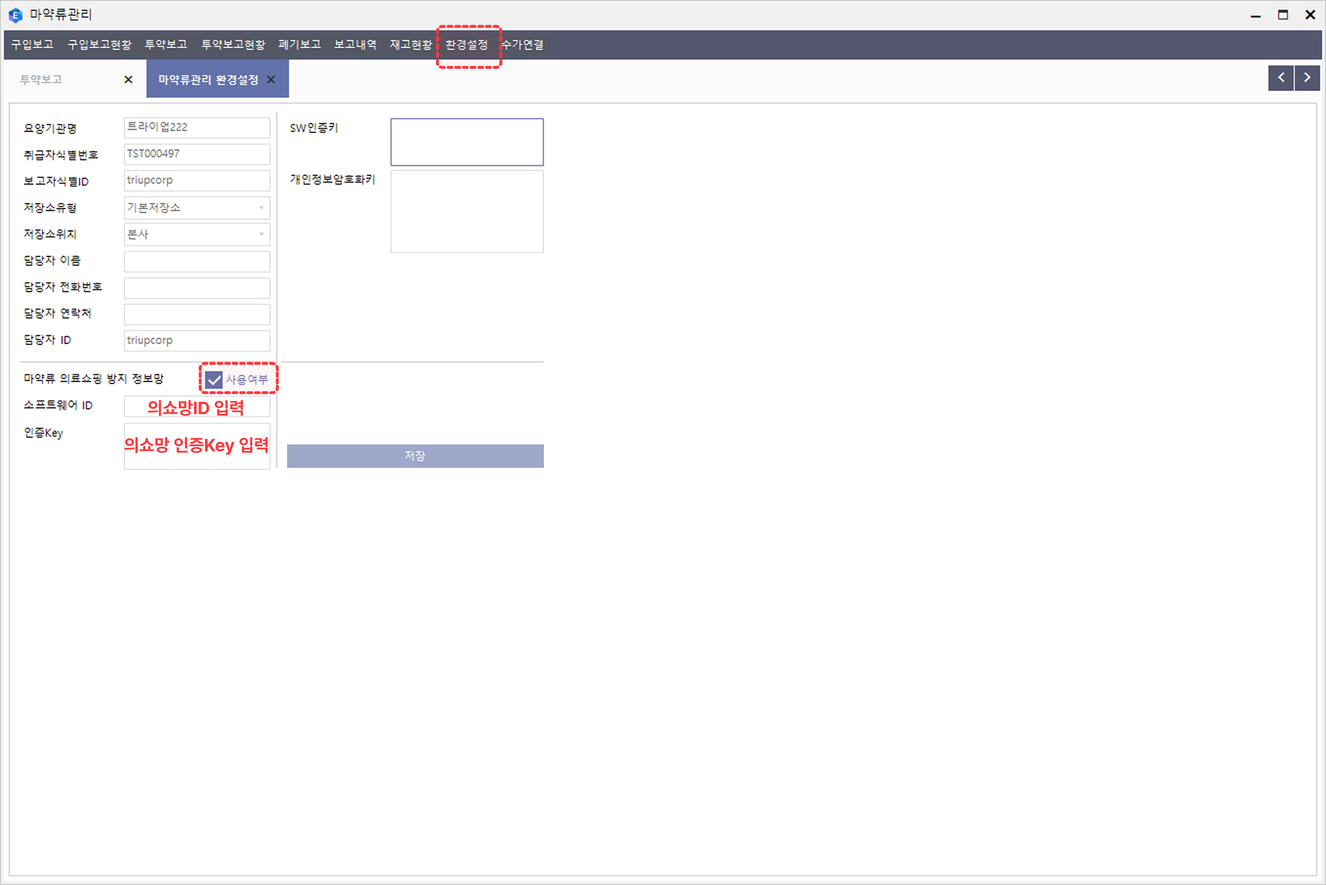
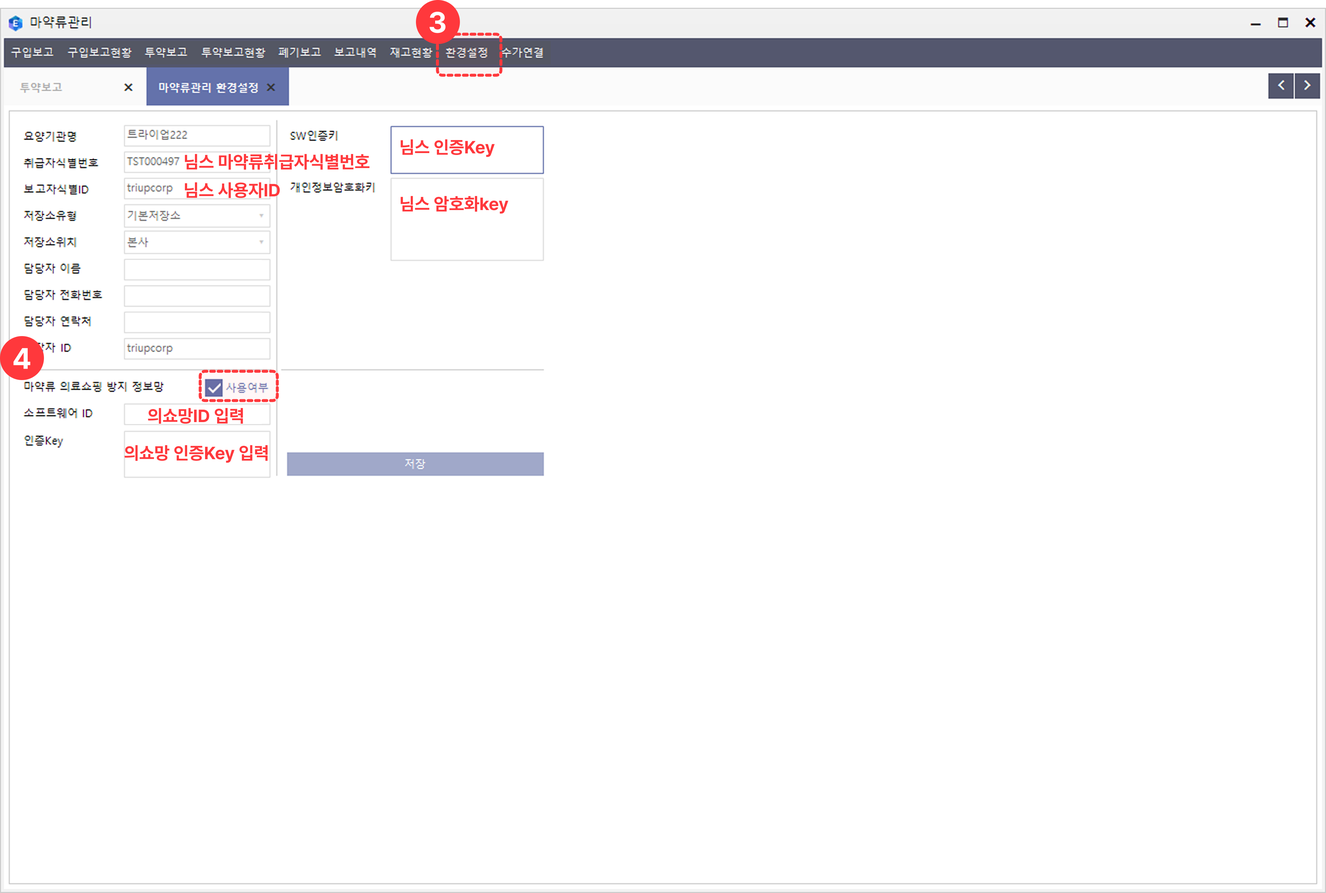
노션 반영: FAQ 7건 수정(고정CRM 표·차트삭제 재작성·마약류 등)
- f9 고정CRM 표: 'DID 호출 안내' 행 삭제(15→14행) 반영, 표 재렌더링(노션 75셀 일치).
- f12 차트를 삭제하고 싶어요: 본문 전면 재작성(대시보드 [접수]칸 삭제 방식), 이미지 갱신(faq-04).
- f13 시술오더 삭제: '※수납완료 상태에서는 수납취소 후 삭제' 추가.
- f14 처방 삭제: '※처방이 여러 개인 경우 우클릭 후 [전체삭제]' 추가.
- f15 상담메모: 첫 동작 '더블클릭'→'클릭'.
- f18 마약류 이력: '님스 NIMS' 표기 추가.
- f19 마약류 메뉴: 제목에 '(NIMS 님스 연동)' 추가 + 두 번째 이미지 교체(faq-43).
- 매뉴얼·공지·업데이트 변경 없음.
- 검증(헤드리스): 49개·짝일치·표 14행·각 항목 반영·회귀(공지18·매뉴얼25·업데이트7·채널톡) 통과(f13·f15 FAIL은 테스트 문자열 공백 오차, 노션 재대조 완전 일치).

Changed region(s): [[0.0, 0.0, 1.0, 0.5563]]

diff --git a/index.html b/index.html
@@ -318,7 +318,7 @@ footer .logo-triup{height:20px;vertical-align:middle;margin:0 4px;opacity:.8}
 
       <svg class="qi-arrow" viewBox="0 0 24 24" width="18" height="18"><path d="M9 6l6 6-6 6" fill="none" stroke="currentColor" stroke-width="2" stroke-linecap="round" stroke-linejoin="round"/></svg>
     </button>
-<button class="q-item" data-id="f9" data-cat="고객관리" data-search="고정crm 설정 값이 궁금해요. No. 이름 발송 조건 (이때 발송돼요) 선택 가능 전송종류 전송종류별 발송 시점 1 접수안내 접수 팝업에서 ‘접수 안내’ 체크박스 선택 후 접수 시 (단, 기존 예약 건을 접수하는 경우만, 신규·재접수 미발송) • 즉시발송 • 설정안함 • 즉시발송: 접수 저장 직후 즉시 (시각 설정 시 당일 그 시각) 2 호출하기 대기 현황판에서 환자 우클릭> [호출하기] 버튼 클릭 • 즉시발송 • 설정안함 • 즉시발송: 대기현황판> 고객카드 우클릭> [호출하기] 버튼 클릭 시 3 신규 환자 인사 상담탭/진료탭 [저장] 시 (임시저장 제외) 첫 내원(신환)인 경우 (이력 있으면 중복 차단) • 자동발송 • 수동발송 • 설정안함 • 자동발송: 설정 시각(미설정 시 즉시) • 수동발송: [고객관리]> [CRM 수동 발송] 에서 발송/처리로 가능 4 고객만족도평가 상담탭/진료탭 [저장] 시 (임시저장 제외), 내원 1건당 1회 • 즉시발송 • 수동발송 • 설정안함 • 즉시발송: 저장 기준 즉시 또는 [관리자]> [옵션설정] >+1/+3/+5시 ◦ 23~06시 → 익일 10:00 이월 • 수동발송: [고객관리]> [CRM 수동 발송] 에서 발송/처리로 가능 5 진료 지연 안내 현재 사용하지 않는 코드 6 사전문진표 신규 예약 등록 시(예약 변경 시 미발송) • 즉시발송 • 수동발송 • 설정안함 • 즉시발송: 신규 예약 등록 즉시 • 수동발송: [고객관리]> [CRM 수동 발송] 에서 발송/처리로 가능 7 예약취소 예약 취소 처리 시 • 즉시발송 • 설정안함 • 즉시발송: 취소 처리 즉시 8 예약변경 예약 일시 변경 시 • 즉시발송 • 설정안함 • 즉시발송: 변경 저장 즉시 (예약캘린더 드래그 이동은 확정 2분 뒤) 9 예약안내 (내원 당일) 예약 등록·변경 저장 시(당일 토글 ON) — 당일 등록 건 미발송 • 자동발송 • 수동발송 • 설정안함 • 자동발송: 예약일 당일 + 설정 시각(미설정 10:00), 예약시간이 더 이르면 30분 전 • 수동발송: [고객관리]> [CRM 수동 발송] 에서 발송/처리로 가능 10 예약안내 (내원 전일) 예약 등록·변경 저장 시(전일 토글 ON) — 예정시각이 미래일 때만 • 자동발송 • 수동발송 • 설정안함 • 자동발송: 예약일 하루 전 + 설정 시각(미설정 10:00) • 수동발송: [고객관리]> [CRM수동 발송] 에서 발송/처리로 가능 11 예약안내 (즉시) 예약 등록 및 외부 예약 확정 즉시 • 즉시발송 • 수동발송 • 설정안함 • 즉시발송: 예약 등록·승인 즉시 • 수동발송: [고객관리]> [CRM 수동 발송] 에서 발송/처리로 가능 12 사용 포인트 안내 포인트 화면 [문자발송] 버튼(수동) 수납·상담 저장 자동발송 없음 • 즉시발송 • 설정안함 • 즉시발송: 버튼 발송 동작 즉시 13 DID 호출 안내 DID 전광판 환자카드 우클릭 → [호출하기] → 확인 • 즉시발송 • 설정안함 • 즉시발송: DID 전광판 환자카드 우클릭 → [호출하기] → 확인 14 방문약도 신규 예약 등록 시 (예약변경 시 미발송) • 즉시발송 • 수동발송 • 설정안함 • 즉시발송: 신규 예약 등록 즉시 • 수동발송: [고객관리]> [CRM 수동 발송] 에서 발송/처리로 가능 15 미방문 안내 예약 노쇼 후 부도 처리 시 • 즉시발송 • 설정안함 • 즉시발송: 부도 처리 즉시">
+<button class="q-item" data-id="f9" data-cat="고객관리" data-search="고정CRM 설정 값이 궁금해요. No. 이름 발송 조건 (이때 발송돼요) 선택 가능 전송종류 전송종류별 발송 시점 1 접수안내 접수 팝업에서 ‘접수 안내’ 체크박스 선택 후 접수 시 (단, 기존 예약 건을 접수 하는 경우만, 신규·재접수 미발송) • 즉시발송 • 설정안함 • 즉시발송: 접수 저장 직후 즉시 (시각 설정 시 당일 그 시각) 2 호출하기 대기 현황판에서 환자 우클릭> [호출하기] 버튼 클릭 • 즉시발송 • 설정안함 • 즉시발송: 대기현황판> 고객카드 우클릭> [호출하기] 버튼 클릭 시 3 신규 환자 인사 상담탭/진료탭 [저장] 시 (임시저장 제외) 첫 내원(신환)인 경우 (이력 있으면 중복 차단) • 자동발송 • 수동발송 • 설정안함 • 자동발송: 설정 시각(미설정 시 즉시) • 수동발송: [고객관리]> [CRM 수동 발송] 에서 발송/처리로 가능 4 고객만족도평가 상담탭/진료탭 [저장] 시 (임시저장 제외), 내원 1건당 1회 • 즉시발송 • 수동발송 • 설정안함 • 즉시발송: 저장 기준 즉시 또는 [관리자]> [옵션설정] >+1/+3/+5시 ◦ 23~06시 → 익일 10:00 이월 • 수동발송: [고객관리]> [CRM 수동 발송] 에서 발송/처리로 가능 5 진료 지연 안내 현재 사용하지 않는 코드 6 사전문진표 신규 예약 등록 시( 예약 변경 시 미발송) • 즉시발송 • 수동발송 • 설정안함 • 즉시발송: 신규 예약 등록 즉시 • 수동발송: [고객관리]> [CRM 수동 발송] 에서 발송/처리로 가능 7 예약취소 예약 취소 처리 시 • 즉시발송 • 설정안함 • 즉시발송: 취소 처리 즉시 8 예약변경 예약 일시 변경 시 • 즉시발송 • 설정안함 • 즉시발송: 변경 저장 즉시 (예약캘린더 드래그 이동은 확정 2분 뒤) 9 예약안내 (내원 당일) 예약 등록·변경 저장 시(당일 토글 ON) — 당일 등록 건 미발송 • 자동발송 • 수동발송 • 설정안함 • 자동발송: 예약일 당일 + 설정 시각 (미설정 10:00), 예약시간이 더 이르면 30분 전 • 수동발송: [고객관리]> [CRM 수동 발송] 에서 발송/처리로 가능 10 예약안내 (내원 전일) 예약 등록·변경 저장 시(전일 토글 ON) — 예정시각이 미래일 때만 • 자동발송 • 수동발송 • 설정안함 • 자동발송: 예약일 하루 전 + 설정 시각 (미설정 10:00) • 수동발송: [고객관리]> [CRM수동 발송] 에서 발송/처리로 가능 11 예약안내 (즉시) 예약 등록 및 외부 예약 확정 즉시 • 즉시발송 • 수동발송 • 설정안함 • 즉시발송: 예약 등록·승인 즉시 • 수동발송: [고객관리]> [CRM 수동 발송] 에서 발송/처리로 가능 12 사용 포인트 안내 포인트 화면 [문자발송] 버튼 (수동) 수납·상담 저장 자동발송 없음 • 즉시발송 • 설정안함 • 즉시발송: 버튼 발송 동작 즉시 13 방문약도 신규 예약 등록 시 (예약 변경 시 미발송) • 즉시발송 • 수동발송 • 설정안함 • 즉시발송: 신규 예약 등록 즉시 • 수동발송: [고객관리]> [CRM 수동 발송] 에서 발송/처리로 가능 14 미방문 안내 예약 노쇼 후 부도 처리 시 • 즉시발송 • 설정안함 • 즉시발송: 부도 처리 즉시">
       <span class="qi-cat">고객관리</span>
       <span class="qi-text">고정CRM 설정 값이 궁금해요.</span>
       <svg class="qi-arrow" viewBox="0 0 24 24" width="18" height="18"><path d="M9 6l6 6-6 6" fill="none" stroke="currentColor" stroke-width="2" stroke-linecap="round" stroke-linejoin="round"/></svg>
@@ -334,25 +334,25 @@ footer .logo-triup{height:20px;vertical-align:middle;margin:0 4px;opacity:.8}
       
       <svg class="qi-arrow" viewBox="0 0 24 24" width="18" height="18"><path d="M9 6l6 6-6 6" fill="none" stroke="currentColor" stroke-width="2" stroke-linecap="round" stroke-linejoin="round"/></svg>
     </button>
-<button class="q-item" data-id="f12" data-cat="차트(상담/진료/수납)" data-search="차트를 삭제하고 싶어요. 차트는 &quot;만들어진 순서의 반대로&quot; 지워야 삭제됩니다. 접수를 하면 차트가 생성되므로, 삭제하실 때는 진행하신 단계를 거꾸로 되돌려 주셔야 합니다. 예를 들어 접수 → 시술/처방 → 수납 까지 완료된 차트라면, 반대 순서인 수납 취소 → 시술/처방 삭제 → 접수 취소 순으로 진행하시면 차트가 삭제됩니다. ※수납취소는 고객 차트 내 수납 탭에서, 시술은 상담 탭, 처방은 진료 탭에서 삭제가 가능합니다.">
+<button class="q-item" data-id="f12" data-cat="차트(상담/진료/수납)" data-search="차트를 삭제하고 싶어요. 대시보드에서 [접수]칸에 있는 차트만 삭제 할 수 있습니다. 삭제할 차트가 [접수]칸에 있다면,’X’버튼을 눌러주시고, [수납] 및 [시술]칸에 있다면 해당 고객 카드 우클릭 후 [상태변경] > [접수]로 이동 후 ‘X’버튼을 눌러주세요. 접수 → 시술/처방 → 수납 까지 완료된 차트라면, 반대 순서인 수납 취소 → 시술/처방 삭제 → 접수 취소 순으로 진행하시면 차트가 삭제 됩니다. ※수납취소는 고객 차트 내 수납 탭에서, 시술은 상담 탭, 처방은 진료 탭에서 삭제 가 가능합니다.">
       <span class="qi-cat">차트(상담/진료/수납)</span>
       <span class="qi-text">차트를 삭제하고 싶어요.</span>
       
       <svg class="qi-arrow" viewBox="0 0 24 24" width="18" height="18"><path d="M9 6l6 6-6 6" fill="none" stroke="currentColor" stroke-width="2" stroke-linecap="round" stroke-linejoin="round"/></svg>
     </button>
-<button class="q-item" data-id="f13" data-cat="차트(상담/진료/수납)" data-search="시술 오더는 어떻게 삭제하나요? 시술내역은 ‘미수납’ 상태에서만 삭제가 가능합니다. 고객 차트 내 [상담] 탭 &gt; [시술내역] 버튼을 누르시면 전체 시술내역이 조회가 되며, 삭제할 내역의 [x] 버튼을 눌러 삭제해 주세요.">
+<button class="q-item" data-id="f13" data-cat="차트(상담/진료/수납)" data-search="시술 오더는 어떻게 삭제하나요? 시술내역은 ‘미수납’ 상태에서만 삭제가 가능합니다. 고객 차트 내 [상담] 탭 > [시술내역] 버튼을 누르시면 전체 시술내역이 조회가 되며, 삭제할 내역의 [X] 버튼을 눌러 삭제해 주세요. ※수납완료 상태에서는 수납취소 후 삭제가 가능합니다.">
       <span class="qi-cat">차트(상담/진료/수납)</span>
       <span class="qi-text">시술 오더는 어떻게 삭제하나요?</span>
       
       <svg class="qi-arrow" viewBox="0 0 24 24" width="18" height="18"><path d="M9 6l6 6-6 6" fill="none" stroke="currentColor" stroke-width="2" stroke-linecap="round" stroke-linejoin="round"/></svg>
     </button>
-<button class="q-item" data-id="f14" data-cat="차트(상담/진료/수납)" data-search="처방 내역을 삭제하고 싶어요. 고객 차트 내 [진료] 탭 에서 처방 된 내역의 [x]버튼 을 눌러주시면 처방이 삭제됩니다. 삭제 후 [저장] 버튼을 눌러주세요.">
+<button class="q-item" data-id="f14" data-cat="차트(상담/진료/수납)" data-search="처방 내역을 삭제하고 싶어요. 고객 차트 내 [진료] 탭 에서 처방 된 내역의 [X]버튼 을 눌러주시면 처방이 삭제됩니다. 삭제 후 [저장] 버튼을 눌러주세요. ※처방이 여러 개인 경우, 우클릭 후 [전체삭제]도 가능합니다.">
       <span class="qi-cat">차트(상담/진료/수납)</span>
       <span class="qi-text">처방 내역을 삭제하고 싶어요.</span>
       
       <svg class="qi-arrow" viewBox="0 0 24 24" width="18" height="18"><path d="M9 6l6 6-6 6" fill="none" stroke="currentColor" stroke-width="2" stroke-linecap="round" stroke-linejoin="round"/></svg>
     </button>
-<button class="q-item" data-id="f15" data-cat="차트(상담/진료/수납)" data-search="상담메모 히스토리를 보고 싶어요. 고객 차트 내 [상담] 탭&gt; 상담메모 영역을 더블클릭 하면 이전 상담메모 히스토리를 확인할 수 있습니다. 상담메모 뿐만아니라, 예약/접수 메모, 어시메모 등 메모 영역 은 더블클릭을 통해 히스토리 확인이 가능합니다.">
+<button class="q-item" data-id="f15" data-cat="차트(상담/진료/수납)" data-search="상담메모 히스토리를 보고 싶어요. 고객 차트 내 [상담] 탭> 상담메모 영역을 클릭 하면 이전 상담메모 히스토리를 확인할 수 있습니다. 상담메모 뿐만아니라, 예약/접수 메모, 어시메모 등 메모 영역은 더블클릭을 통해 히스토리 확인이 가능합니다.">
       <span class="qi-cat">차트(상담/진료/수납)</span>
       <span class="qi-text">상담메모 히스토리를 보고 싶어요.</span>
       
@@ -369,14 +369,14 @@ footer .logo-triup{height:20px;vertical-align:middle;margin:0 4px;opacity:.8}
       <span class="qi-text">QR접수는 어떻게 하나요?</span>
       <svg class="qi-arrow" viewBox="0 0 24 24" width="18" height="18"><path d="M9 6l6 6-6 6" fill="none" stroke="currentColor" stroke-width="2" stroke-linecap="round" stroke-linejoin="round"/></svg>
     </button>
-<button class="q-item" data-id="f18" data-cat="차트(상담/진료/수납)" data-search="마약류 이력을 조회하고 싶어요. 환자의 지난 1년간 의료용 마약류 처방(투약) 이력은 차트에서 [마약류이력]을 통해 조회하실 수 있습니다. 사전 준비 최초 1회 마약류 이력 조회는 의료용 마약류 안전정보 시스템(nims) 연동이 필요합니다. 사이트: data.nims.or.kr 원장님(의사) 개인 인증서 계정으로 회원가입 간편비밀번호를 쓰시려면 nims 로그인 후 회원 연계정보 메뉴에서 등록 조회 방법 ① 차트 처방 화면에서 [마약류이력] 버튼을 클릭합니다. ② 팝업 상단의 [환자고지여부]에 체크합니다. 환자에게 마약류 처방 정보 열람 사실을 사전에 고지한 후 체크해 주세요. ③ 비밀번호란에 로그인 비밀번호(또는 간편비밀번호)를 입력하고 [확인]을 누르면, 해당 환자의 최근 1년간 마약류 투약 내역이 조회됩니다.">
+<button class="q-item" data-id="f18" data-cat="차트(상담/진료/수납)" data-search="마약류 이력을 조회하고 싶어요. 환자의 지난 1년간 의료용 마약류 처방(투약) 이력은 차트에서 [마약류이력] 을 통해 조회하실 수 있습니다. ■ 사전 준비 (최초 1회) 마약류 이력 조회는 의료용 마약류 안전정보 시스템(님스 NIMS) 연동이 필요합니다. 사이트: data.nims.or.kr 원장님(의사) 개인 인증서 계정 으로 회원가입 (※ 대표자가 아닌 의사 본인 자격 으로 가입) 간편비밀번호를 쓰시려면 NIMS 로그인 후 회원 > 연계정보 메뉴에서 등록 ■ 조회 방법 ① 차트 처방 화면에서 [마약류이력] 버튼을 클릭합니다. ② 팝업 상단의 [환자고지여부] 에 체크합니다. → 환자에게 마약류 처방 정보 열람 사실을 사전에 고지한 후 체크해 주세요. (법정 고지 사항) ③ 비밀번호 란에 로그인 비밀번호(또는 간편비밀번호) 를 입력하고 [확인] 을 누르면, 해당 환자의 최근 1년간 마약류 투약 내역이 조회됩니다.">
       <span class="qi-cat">차트(상담/진료/수납)</span>
       <span class="qi-text">마약류 이력을 조회하고 싶어요.</span>
       <svg class="qi-arrow" viewBox="0 0 24 24" width="18" height="18"><path d="M9 6l6 6-6 6" fill="none" stroke="currentColor" stroke-width="2" stroke-linecap="round" stroke-linejoin="round"/></svg>
     </button>
-<button class="q-item" data-id="f19" data-cat="차트(상담/진료/수납)" data-search="차트에 마약류 메뉴가 보이지 않아요. [관리자] > [옵션설정] 에서 [마약류관리 사용여부] 를 '사용' 으로 설정하면 차트에 마약류 메뉴가 표시됩니다. ■ 설정 방법 ① [관리자] > [옵션설정] 에서 [마약류관리 사용여부] 를 '사용' 으로 선택 ② 하단 [일괄저장] 클릭 → 저장 후 차트에 마약류 메뉴가 표시 됩니다. ■ 참고 — 메뉴는 보이는데 조회가 안 되는 경우 마약류 메뉴는 위 설정만으로 표시되며, 실제 환자 투약내역 '조회'를 하려면 의쇼망 연동 정보를 추가로 입력 해야 합니다. [마약류관리] > [환경설정] > [마약류 의료쇼핑 방지 정보망] 에서 [사용여부] 체크 후, 소프트웨어 ID (의쇼망 ID)와 인증Key 입력 → 저장 인증Key는 의료용마약류 안전정보시스템(NIMS, data.nims.or.kr) 에서 발급받은 값이어야 하며, 반드시 '의사(개인)' 자격으로 발급받은 개인 인증키 여야 합니다. (대표자 인증키 입력 시 조회 오류 발생)">
+<button class="q-item" data-id="f19" data-cat="차트(상담/진료/수납)" data-search="차트에 마약류 메뉴가 보이지 않아요. (NIMS 님스 연동) [관리자] > [옵션설정] 에서 [마약류관리 사용여부] 를 '사용' 으로 설정하면 차트에 마약류 메뉴가 표시됩니다. ■ 설정 방법 ① [관리자] > [옵션설정] 에서 [마약류관리 사용여부] 를 '사용' 으로 선택 ② 하단 [일괄저장] 클릭 → 저장 후 차트에 마약류 메뉴가 표시 됩니다. ■ 참고 — 메뉴는 보이는데 조회가 안 되는 경우 마약류 메뉴는 위 설정만으로 표시되며, 실제 환자 투약내역 '조회'를 하려면 의쇼망 연동 정보를 추가로 입력 해야 합니다. [마약류관리] > [환경설정] > [마약류 의료쇼핑 방지 정보망] 에서 [사용여부] 체크 후, 소프트웨어 ID (의쇼망 ID)와 인증Key 입력 → 저장 인증Key는 의료용마약류 안전정보시스템(NIMS, data.nims.or.kr) 에서 발급받은 값이어야 하며, 반드시 '의사(개인)' 자격으로 발급받은 개인 인증키 여야 합니다. (대표자 인증키 입력 시 조회 오류 발생)">
       <span class="qi-cat">차트(상담/진료/수납)</span>
-      <span class="qi-text">차트에 마약류 메뉴가 보이지 않아요.</span>
+      <span class="qi-text">차트에 마약류 메뉴가 보이지 않아요. (NIMS 님스 연동)</span>
       <svg class="qi-arrow" viewBox="0 0 24 24" width="18" height="18"><path d="M9 6l6 6-6 6" fill="none" stroke="currentColor" stroke-width="2" stroke-linecap="round" stroke-linejoin="round"/></svg>
     </button>
 <button class="q-item" data-id="f20" data-cat="매출관리" data-search="매출금액별 ‘총 진료비’와 ‘수납금액’의 합계가 맞지 않아요. 매출금액과 수납금액은 집계 기준이 달라 차이가 발생할 수 있습니다. 매출금액(총 진료비)에는 환자 본인부담금과 공단부담금이 모두 포함됩니다. 수납금액에는 환자가 실제로 납부한 본인부담금만 반영됩니다. 따라서 건강보험 청구 건이 포함된 경우 매출금액과 수납금액의 합계가 일치하지 않을 수 있습니다. 또한 미수금이 발생한 경우에도 조회 화면에 따라 금액 차이가 발생할 수 있습니다. 미수금은, [매출관리] &gt; [미수금 내역]에서 조회 가능합니다. ※ 결산시스템의 미수금은 0원으로 수납 처리한 경우에만 미수금으로 집계됩니다. 단순히 수납 처리를 진행하지 않은 건은 결산시스템 &gt; 미수금 메뉴에 표시되지 않을 수 있습니다. 매출과 수납을 비교할 때에는 총 진료비에서 보험청구액, 미수금을 제외하고 비교해 주세요.">
@@ -595,7 +595,7 @@ footer .logo-triup{height:20px;vertical-align:middle;margin:0 4px;opacity:.8}
 <div class="detail-panel" data-id="f9">
       <div class="dp-cat">고객관리</div>
       <h2 class="dp-q">고정CRM 설정 값이 궁금해요.</h2>
-      <div class="dp-body"><p>고정 CRM은 상황별로 자동/수동 발송되는 메시지예요. 항목별 <strong>발송 조건·선택 가능한 전송종류·발송 시점</strong>은 아래 표를 참고해 주세요.</p><div class="dp-table-wrap"><table class="dp-table"><thead><tr><th>No.</th><th>이름</th><th>발송 조건 (이때 발송돼요)</th><th>선택 가능 전송종류</th><th>전송종류별 발송 시점</th></tr></thead><tbody><tr><td>1</td><td><strong>접수안내</strong></td><td>접수 팝업에서 <strong>‘접수 안내’ 체크박스 선택</strong> 후 접수 시<br>(단, <strong>기존 예약 건을 접수</strong>하는 경우만,<br>신규·재접수 미발송)</td><td>• 즉시발송<br>• 설정안함</td><td>• 즉시발송: 접수 저장 직후 즉시 (시각 설정 시 당일 그 시각)</td></tr><tr><td>2</td><td><strong>호출하기</strong></td><td>대기 현황판에서 환자 우클릭&gt; <strong>[호출하기] 버튼</strong> 클릭</td><td>• 즉시발송<br>• 설정안함</td><td>• 즉시발송: 대기현황판&gt; 고객카드 우클릭&gt; [호출하기] 버튼 클릭 시</td></tr><tr><td>3</td><td><strong>신규 환자 인사</strong></td><td>상담탭/진료탭 <strong>[저장]</strong> 시 (임시저장 제외)<br>첫 내원(신환)인 경우 (이력 있으면 중복 차단)</td><td>• 자동발송<br>• 수동발송<br>• 설정안함</td><td>• 자동발송: 설정 시각(미설정 시 즉시)<br>• 수동발송: [고객관리]&gt; [CRM 수동 발송] 에서 발송/처리로 가능</td></tr><tr><td>4</td><td><strong>고객만족도평가</strong></td><td>상담탭/진료탭 <strong>[저장]</strong> 시 (임시저장 제외), <strong>내원 1건당 1회</strong></td><td>• 즉시발송<br>• 수동발송<br>• 설정안함</td><td>• 즉시발송: 저장 기준 즉시 또는<strong> [관리자]&gt; [옵션설정] &gt;+1/+3/+5시</strong><br>◦  <strong>23~06시 → 익일 10:00 이월</strong><br>• 수동발송: [고객관리]&gt; [CRM 수동 발송] 에서 발송/처리로 가능</td></tr><tr><td>5</td><td><strong>진료 지연 안내</strong></td><td>현재 사용하지 않는 코드</td><td></td><td></td></tr><tr><td>6</td><td><strong>사전문진표</strong></td><td><strong>신규 예약</strong> 등록 시(<strong>예약 변경 시 미발송)</strong></td><td>• 즉시발송<br>• 수동발송<br>• 설정안함</td><td>• 즉시발송: 신규 예약 등록 즉시<br>• 수동발송: [고객관리]&gt; [CRM 수동 발송] 에서 발송/처리로 가능</td></tr><tr><td>7</td><td><strong>예약취소</strong></td><td>예약 <strong>취소</strong> 처리 시</td><td>• 즉시발송<br>• 설정안함</td><td>• 즉시발송: 취소 처리 즉시</td></tr><tr><td>8</td><td><strong>예약변경</strong></td><td>예약 <strong>일시 변경</strong> 시</td><td>• 즉시발송<br>• 설정안함</td><td>• 즉시발송: 변경 저장 즉시 (예약캘린더 드래그 이동은 확정 2분 뒤)</td></tr><tr><td>9</td><td><strong>예약안내 (내원 당일)</strong></td><td>예약 등록·변경 저장 시(당일 토글 ON) — <strong>당일 등록 건 미발송</strong></td><td>• 자동발송<br>• 수동발송<br>• 설정안함</td><td>• 자동발송: 예약일 <strong>당일 + 설정 시각</strong>(미설정 10:00), 예약시간이 더 이르면 30분 전<br>• 수동발송: [고객관리]&gt; [CRM 수동 발송] 에서 발송/처리로 가능</td></tr><tr><td>10</td><td><strong>예약안내 (내원 전일)</strong></td><td>예약 등록·변경 저장 시(전일 토글 ON) — 예정시각이 미래일 때만</td><td>• 자동발송<br>• 수동발송<br>• 설정안함</td><td>• 자동발송: 예약일 <strong>하루 전 + 설정 시각</strong>(미설정 10:00)<br>• 수동발송: [고객관리]&gt; [CRM수동 발송] 에서 발송/처리로 가능</td></tr><tr><td>11</td><td><strong>예약안내 (즉시)</strong></td><td>예약 등록 및 외부 예약 확정 즉시</td><td>• 즉시발송<br>• 수동발송<br>• 설정안함</td><td>• 즉시발송: 예약 등록·승인 즉시<br>• 수동발송: [고객관리]&gt; [CRM 수동 발송] 에서 발송/처리로 가능</td></tr><tr><td>12</td><td><strong>사용 포인트 안내</strong></td><td>포인트 화면 <strong>[문자발송] 버튼</strong>(수동)<br>수납·상담 저장 자동발송 없음</td><td>• 즉시발송<br>• 설정안함</td><td>• 즉시발송: 버튼 발송 동작 즉시</td></tr><tr><td>13</td><td><strong>DID 호출 안내</strong></td><td>DID 전광판 환자카드 우클릭 → [호출하기] → 확인</td><td>• 즉시발송<br>• 설정안함</td><td>• 즉시발송:  DID 전광판 환자카드 우클릭 → [호출하기] → 확인</td></tr><tr><td>14</td><td><strong>방문약도</strong></td><td><strong>신규 예약</strong> 등록 시 (예약<strong>변경 시 미발송)</strong></td><td>• 즉시발송<br>• 수동발송<br>• 설정안함</td><td>• 즉시발송: 신규 예약 등록 즉시<br>• 수동발송: [고객관리]&gt; [CRM 수동 발송] 에서 발송/처리로 가능</td></tr><tr><td>15</td><td><strong>미방문 안내</strong></td><td>예약 노쇼 후 <strong>부도 처리</strong> 시</td><td>• 즉시발송<br>• 설정안함</td><td>• 즉시발송: 부도 처리 즉시</td></tr></tbody></table></div></div>
+      <div class="dp-body"><div class="dp-table-wrap"><table class="dp-table"><thead><tr><th>No.</th><th>이름</th><th>발송 조건 (이때 발송돼요)</th><th>선택 가능 전송종류</th><th>전송종류별 발송 시점</th></tr></thead><tbody><tr><td>1</td><td><strong>접수안내</strong></td><td>접수 팝업에서 <strong>‘접수 안내’ 체크박스 선택</strong> 후 접수 시<br>(단, <strong>기존 예약 건을 접수</strong>하는 경우만,<br>신규·재접수 미발송)</td><td>• 즉시발송<br>• 설정안함</td><td>• 즉시발송: 접수 저장 직후 즉시 (시각 설정 시 당일 그 시각)</td></tr><tr><td>2</td><td><strong>호출하기</strong></td><td>대기 현황판에서 환자 우클릭&gt; <strong>[호출하기] 버튼</strong> 클릭</td><td>• 즉시발송<br>• 설정안함</td><td>• 즉시발송: 대기현황판&gt; 고객카드 우클릭&gt; [호출하기] 버튼 클릭 시</td></tr><tr><td>3</td><td><strong>신규 환자 인사</strong></td><td>상담탭/진료탭 <strong>[저장]</strong> 시 (임시저장 제외)<br>첫 내원(신환)인 경우 (이력 있으면 중복 차단)</td><td>• 자동발송<br>• 수동발송<br>• 설정안함</td><td>• 자동발송: 설정 시각(미설정 시 즉시)<br>• 수동발송: [고객관리]&gt; [CRM 수동 발송] 에서 발송/처리로 가능</td></tr><tr><td>4</td><td><strong>고객만족도평가</strong></td><td>상담탭/진료탭 <strong>[저장]</strong> 시 (임시저장 제외), <strong>내원 1건당 1회</strong></td><td>• 즉시발송<br>• 수동발송<br>• 설정안함</td><td>• 즉시발송: 저장 기준 즉시 또는<strong> [관리자]&gt; [옵션설정] &gt;+1/+3/+5시</strong><br>◦  <strong>23~06시 → 익일 10:00 이월</strong><br>• 수동발송: [고객관리]&gt; [CRM 수동 발송] 에서 발송/처리로 가능</td></tr><tr><td>5</td><td><strong>진료 지연 안내</strong></td><td>현재 사용하지 않는 코드</td><td></td><td></td></tr><tr><td>6</td><td><strong>사전문진표</strong></td><td><strong>신규 예약</strong> 등록 시(<strong>예약 변경 시 미발송)</strong></td><td>• 즉시발송<br>• 수동발송<br>• 설정안함</td><td>• 즉시발송: 신규 예약 등록 즉시<br>• 수동발송: [고객관리]&gt; [CRM 수동 발송] 에서 발송/처리로 가능</td></tr><tr><td>7</td><td><strong>예약취소</strong></td><td>예약 <strong>취소</strong> 처리 시</td><td>• 즉시발송<br>• 설정안함</td><td>• 즉시발송: 취소 처리 즉시</td></tr><tr><td>8</td><td><strong>예약변경</strong></td><td>예약 <strong>일시 변경</strong> 시</td><td>• 즉시발송<br>• 설정안함</td><td>• 즉시발송: 변경 저장 즉시 (예약캘린더 드래그 이동은 확정 2분 뒤)</td></tr><tr><td>9</td><td><strong>예약안내 (내원 당일)</strong></td><td>예약 등록·변경 저장 시(당일 토글 ON) — <strong>당일 등록 건 미발송</strong></td><td>• 자동발송<br>• 수동발송<br>• 설정안함</td><td>• 자동발송: 예약일 <strong>당일 + 설정 시각</strong>(미설정 10:00), 예약시간이 더 이르면 30분 전<br>• 수동발송: [고객관리]&gt; [CRM 수동 발송] 에서 발송/처리로 가능</td></tr><tr><td>10</td><td><strong>예약안내 (내원 전일)</strong></td><td>예약 등록·변경 저장 시(전일 토글 ON) — 예정시각이 미래일 때만</td><td>• 자동발송<br>• 수동발송<br>• 설정안함</td><td>• 자동발송: 예약일 <strong>하루 전 + 설정 시각</strong>(미설정 10:00)<br>• 수동발송: [고객관리]&gt; [CRM수동 발송] 에서 발송/처리로 가능</td></tr><tr><td>11</td><td><strong>예약안내 (즉시)</strong></td><td>예약 등록 및 외부 예약 확정 즉시</td><td>• 즉시발송<br>• 수동발송<br>• 설정안함</td><td>• 즉시발송: 예약 등록·승인 즉시<br>• 수동발송: [고객관리]&gt; [CRM 수동 발송] 에서 발송/처리로 가능</td></tr><tr><td>12</td><td><strong>사용 포인트 안내</strong></td><td>포인트 화면 <strong>[문자발송] 버튼</strong>(수동)<br>수납·상담 저장 자동발송 없음</td><td>• 즉시발송<br>• 설정안함</td><td>• 즉시발송: 버튼 발송 동작 즉시</td></tr><tr><td>13</td><td><strong>방문약도</strong></td><td><strong>신규 예약</strong> 등록 시 (예약<strong>변경 시 미발송)</strong></td><td>• 즉시발송<br>• 수동발송<br>• 설정안함</td><td>• 즉시발송: 신규 예약 등록 즉시<br>• 수동발송: [고객관리]&gt; [CRM 수동 발송] 에서 발송/처리로 가능</td></tr><tr><td>14</td><td><strong>미방문 안내</strong></td><td>예약 노쇼 후 <strong>부도 처리</strong> 시</td><td>• 즉시발송<br>• 설정안함</td><td>• 즉시발송: 부도 처리 즉시</td></tr></tbody></table></div></div>
     </div>
 <div class="detail-panel" data-id="f10">
       <div class="dp-cat">고객관리</div>
@@ -610,25 +610,22 @@ footer .logo-triup{height:20px;vertical-align:middle;margin:0 4px;opacity:.8}
 <div class="detail-panel" data-id="f12">
       <div class="dp-cat">차트(상담/진료/수납)</div>
       <h2 class="dp-q">차트를 삭제하고 싶어요.</h2>
-      <div class="dp-body"><p><strong>차트는 &quot;만들어진 순서의 반대로&quot; 지워야 삭제됩니다.</strong></p><p>접수를 하면 차트가 생성되므로, 삭제하실 때는 진행하신 단계를 거꾸로 되돌려 주셔야 합니다.
-예를 들어 <strong>접수 → 시술/처방 → 수납</strong>까지 완료된 차트라면, 
-반대 순서인 <strong>수납 취소 → 시술/처방 삭제 → 접수 취소</strong> 순으로 진행하시면 차트가 삭제됩니다.</p><p>※수납취소는 고객 차트 내 수납 탭에서, 시술은 상담 탭, 처방은 진료 탭에서 삭제가 가능합니다. </p><figure><img loading="lazy" src="images/faq-04.png" alt="이미지"></figure></div>
+      <div class="dp-body"><p>대시보드에서 <strong>[접수]칸에 있는 차트만 삭제</strong>할 수 있습니다.</p><p>삭제할 차트가 [접수]칸에 있다면,’X’버튼을 눌러주시고,<br>[수납] 및 [시술]칸에 있다면 해당 고객 카드 <strong>우클릭 후 [상태변경] &gt; [접수]로 이동</strong> 후 ‘X’버튼을 눌러주세요.</p><p><strong>접수 → 시술/처방 → 수납</strong>까지 완료된 차트라면, 반대 순서인 <strong>수납 취소 → 시술/처방 삭제 → 접수 취소</strong> 순으로 진행하시면 차트가 <strong>삭제</strong>됩니다.</p><p>※수납취소는 고객 차트 내 수납 탭에서, 시술은 상담 탭, 처방은 진료 탭에서 <strong>삭제</strong>가 가능합니다.</p><figure><img loading="lazy" src="images/faq-04.png" alt="이미지"></figure></div>
     </div>
 <div class="detail-panel" data-id="f13">
       <div class="dp-cat">차트(상담/진료/수납)</div>
       <h2 class="dp-q">시술 오더는 어떻게 삭제하나요?</h2>
-      <div class="dp-body"><p>시술내역은<strong> ‘미수납’ </strong>상태에서만 삭제가 가능합니다.
-고객 차트 내<strong> [상담] 탭 &gt; [시술내역] </strong>버튼을 누르시면 전체 시술내역이 조회가 되며, 삭제할 내역의<strong> [X]</strong>버튼을 눌러 삭제해 주세요.</p><figure><img loading="lazy" src="images/faq-05.png" alt="이미지"></figure></div>
+      <div class="dp-body"><p>시술내역은<strong> ‘미수납’ </strong>상태에서만 삭제가 가능합니다.<br>고객 차트 내<strong> [상담] 탭 &gt; [시술내역] </strong>버튼을 누르시면 전체 시술내역이 조회가 되며, 삭제할 내역의<strong> [X]</strong>버튼을 눌러 삭제해 주세요.</p><p>※수납완료 상태에서는 수납취소 후 삭제가 가능합니다.</p><figure><img loading="lazy" src="images/faq-05.png" alt="이미지"></figure></div>
     </div>
 <div class="detail-panel" data-id="f14">
       <div class="dp-cat">차트(상담/진료/수납)</div>
       <h2 class="dp-q">처방 내역을 삭제하고 싶어요.</h2>
-      <div class="dp-body"><p>고객 차트 내 <strong>[진료] 탭</strong>에서 처방 된 내역의 <strong>[X]버튼</strong>을 눌러주시면 처방이 삭제됩니다. </p><p>삭제 후<strong> [저장]</strong> 버튼을 눌러주세요. </p><figure><img loading="lazy" src="images/faq-06.png" alt="이미지"></figure></div>
+      <div class="dp-body"><p>고객 차트 내 <strong>[진료] 탭</strong>에서 처방 된 내역의 <strong>[X]버튼</strong>을 눌러주시면 처방이 삭제됩니다. </p><p>삭제 후<strong> [저장]</strong> 버튼을 눌러주세요. </p><p>※처방이 여러 개인 경우, 우클릭 후 [전체삭제]도 가능합니다. </p><figure><img loading="lazy" src="images/faq-06.png" alt="이미지"></figure></div>
     </div>
 <div class="detail-panel" data-id="f15">
       <div class="dp-cat">차트(상담/진료/수납)</div>
       <h2 class="dp-q">상담메모 히스토리를 보고 싶어요.</h2>
-      <div class="dp-body"><p>고객 차트 내<strong> [상담] 탭&gt; 상담메모 영역을 더블클릭</strong> 하면 이전 상담메모 히스토리를 확인할 수 있습니다.</p><p>상담메모 뿐만아니라, 예약/접수 메모, 어시메모 등 <u>메모 영역</u>은 더블클릭을 통해 히스토리 확인이 가능합니다. </p><figure><img loading="lazy" src="images/faq-07.png" alt="이미지"></figure></div>
+      <div class="dp-body"><p>고객 차트 내<strong> [상담] 탭&gt; 상담메모 영역을 클릭</strong> 하면 이전 상담메모 히스토리를 확인할 수 있습니다.</p><p>상담메모 뿐만아니라, 예약/접수 메모, 어시메모 등 메모 영역은 더블클릭을 통해 히스토리 확인이 가능합니다. </p><figure><img loading="lazy" src="images/faq-07.png" alt="이미지"></figure></div>
     </div>
 <div class="detail-panel" data-id="f16">
       <div class="dp-cat">차트(상담/진료/수납)</div>
@@ -643,15 +640,12 @@ footer .logo-triup{height:20px;vertical-align:middle;margin:0 4px;opacity:.8}
 <div class="detail-panel" data-id="f18">
       <div class="dp-cat">차트(상담/진료/수납)</div>
       <h2 class="dp-q">마약류 이력을 조회하고 싶어요.</h2>
-      <div class="dp-body"><p>환자의 지난 1년간 의료용 마약류 처방(투약) 이력은 차트에서 <strong>[마약류이력]</strong>을 통해 조회하실 수 있습니다.</p><h4 class="a-h2">■ 사전 준비 (최초 1회)</h4><p>마약류 이력 조회는 <strong>의료용 마약류 안전정보 시스템(NIMS)</strong> 연동이 필요합니다.</p><ul><li>사이트: <strong>data.nims.or.kr</strong></li><li><strong>원장님(의사) 개인 인증서 계정</strong>으로 회원가입 (※ 대표자가 아닌 <strong>의사 본인 자격</strong>으로 가입)</li><li>간편비밀번호를 쓰시려면 NIMS 로그인 후 <strong>회원 &gt; 연계정보</strong> 메뉴에서 등록</li></ul><h4 class="a-h2">■ 조회 방법</h4><p>① 차트 처방 화면에서 <strong>[마약류이력]</strong> 버튼을 클릭합니다.</p><p>② 팝업 상단의 <strong>[환자고지여부]</strong>에 체크합니다.<br>→ 환자에게 마약류 처방 정보 <strong>열람 사실을 사전에 고지한 후</strong> 체크해 주세요. (법정 고지 사항)</p><p>③ <strong>비밀번호</strong>란에 <strong>로그인 비밀번호(또는 간편비밀번호)</strong>를 입력하고 <strong>[확인]</strong>을 누르면, 해당 환자의 최근 1년간 마약류 투약 내역이 조회됩니다.</p><figure><img loading="lazy" src="images/faq-41.png" alt="이미지"></figure></div>
+      <div class="dp-body"><p>환자의 지난 1년간 의료용 마약류 처방(투약) 이력은 차트에서 <strong>[마약류이력]</strong> 을 통해 조회하실 수 있습니다.</p><p><strong>■ 사전 준비 (최초 1회)</strong></p><p>마약류 이력 조회는 <strong>의료용 마약류 안전정보 시스템(님스 NIMS)</strong> 연동이 필요합니다.</p><ul><li>사이트: <strong>data.nims.or.kr</strong></li><li><strong>원장님(의사) 개인 인증서 계정</strong>으로 회원가입 (※ 대표자가 아닌 <strong>의사 본인 자격</strong>으로 가입)</li><li>간편비밀번호를 쓰시려면 NIMS 로그인 후 <strong>회원 &gt; 연계정보</strong> 메뉴에서 등록</li></ul><p><strong>■ 조회 방법</strong></p><p>① 차트 처방 화면에서 <strong>[마약류이력]</strong> 버튼을 클릭합니다.</p><p>② 팝업 상단의 <strong>[환자고지여부]</strong> 에 체크합니다.</p><p>→ 환자에게 마약류 처방 정보 <strong>열람 사실을 사전에 고지한 후</strong> 체크해 주세요. (법정 고지 사항)</p><p>③ <strong>비밀번호</strong> 란에 <strong>로그인 비밀번호(또는 간편비밀번호)</strong> 를 입력하고 <strong>[확인]</strong> 을 누르면, 해당 환자의 최근 1년간 마약류 투약 내역이 조회됩니다.</p><figure><img loading="lazy" src="images/faq-41.png" alt="이미지"></figure></div>
     </div>
 <div class="detail-panel" data-id="f19">
       <div class="dp-cat">차트(상담/진료/수납)</div>
-      <h2 class="dp-q">차트에 마약류 메뉴가 보이지 않아요.</h2>
-      <div class="dp-body"><p><strong>[관리자] &gt; [옵션설정]</strong> 에서 <strong>[마약류관리 사용여부]</strong> 를 <strong>'사용'</strong> 으로 설정하면 차트에 마약류 메뉴가 표시됩니다.</p><p><strong>■ 설정 방법</strong></p><p>① <strong>[관리자] &gt; [옵션설정]</strong> 에서 <strong>[마약류관리 사용여부]</strong> 를 <strong>'사용'</strong> 으로 선택</p><p>② 하단 <strong>[일괄저장]</strong> 클릭</p><p>→ 저장 후 차트에 <strong>마약류 메뉴가 표시</strong>됩니다.</p><p><strong>■ 참고 — 메뉴는 보이는데 조회가 안 되는 경우</strong></p><p>마약류 메뉴는 위 설정만으로 표시되며, <strong>실제 환자 투약내역 '조회'를 하려면 의쇼망 연동 정보를 추가로 입력</strong>해야 합니다.</p><ul><li><strong>[마약류관리] &gt; [환경설정]</strong> &gt; <strong>[마약류 의료쇼핑 방지 정보망]</strong> 에서 <strong>[사용여부]</strong> 체크 후, 
-<strong>소프트웨어 ID</strong>(의쇼망 ID)와 <strong>인증Key</strong> 입력 → 저장</li><li>인증Key는 <strong>의료용마약류 안전정보시스템(NIMS, data.nims.or.kr)</strong> 에서 발급받은 값이어야 하며,
- <strong>반드시 '의사(개인)' 자격으로 발급받은 개인 인증키</strong>여야 합니다. 
-(대표자 인증키 입력 시 조회 오류 발생)</li></ul><figure><img loading="lazy" src="images/faq-42.png" alt="이미지"></figure><figure><img loading="lazy" src="images/faq-43.png" alt="이미지"></figure></div>
+      <h2 class="dp-q">차트에 마약류 메뉴가 보이지 않아요. (NIMS 님스 연동)</h2>
+      <div class="dp-body"><p><strong>[관리자] &gt; [옵션설정]</strong> 에서 <strong>[마약류관리 사용여부]</strong> 를 <strong>'사용'</strong> 으로 설정하면 차트에 마약류 메뉴가 표시됩니다.</p><p><strong>■ 설정 방법</strong></p><p>① <strong>[관리자] &gt; [옵션설정]</strong> 에서 <strong>[마약류관리 사용여부]</strong> 를 <strong>'사용'</strong> 으로 선택</p><p>② 하단 <strong>[일괄저장]</strong> 클릭</p><p>→ 저장 후 차트에 <strong>마약류 메뉴가 표시</strong>됩니다.</p><p><strong>■ 참고 — 메뉴는 보이는데 조회가 안 되는 경우</strong></p><p>마약류 메뉴는 위 설정만으로 표시되며, <strong>실제 환자 투약내역 '조회'를 하려면 의쇼망 연동 정보를 추가로 입력</strong>해야 합니다.</p><ul><li><strong>[마약류관리] &gt; [환경설정]</strong> &gt; <strong>[마약류 의료쇼핑 방지 정보망]</strong> 에서 <strong>[사용여부]</strong> 체크 후, <br><strong>소프트웨어 ID</strong>(의쇼망 ID)와 <strong>인증Key</strong> 입력 → 저장</li><li>인증Key는 <strong>의료용마약류 안전정보시스템(NIMS, data.nims.or.kr)</strong> 에서 발급받은 값이어야 하며,<br> <strong>반드시 '의사(개인)' 자격으로 발급받은 개인 인증키</strong>여야 합니다. <br>(대표자 인증키 입력 시 조회 오류 발생)</li></ul><figure><img loading="lazy" src="images/faq-42.png" alt="이미지"></figure><figure><img loading="lazy" src="images/faq-43.png" alt="이미지"></figure></div>
     </div>
 <div class="detail-panel" data-id="f20">
       <div class="dp-cat">매출관리</div>
